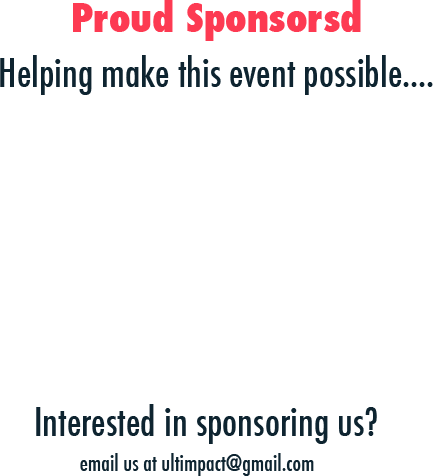
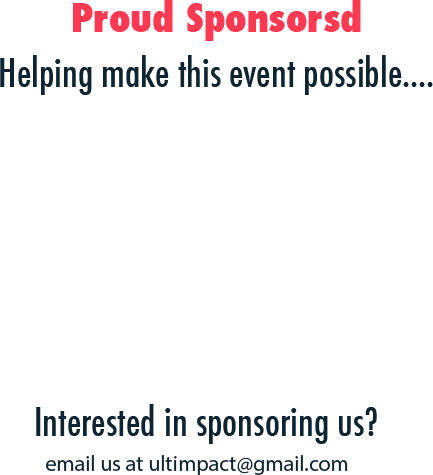
more picture to html

diff --git a/Deploy/index.html b/Deploy/index.html
@@ -160,7 +160,21 @@
 
             <h3>Daniel Rasmuson</h3>
             "If you are not making someone's life better you are wasting your time." Will Smith - My goals are to add value to the lives of people around the world. As a management major I hope to advance the the world by pushing the boundaries of technology. Currently I am working towards this goal by improving myself in the areas of leadership and software development. -->
-            <img src="img/sponsorText.png" alt="" class="middle">
+            <!-- <img src="img/sponsorText.png" alt="" class="middle"> -->
+            <div class="title" style="text-align: center;">Proudly Sponsored By</div>
+            <hr class="hrTitle">
+            <div class="bigText">Helping make this event possible.....</div>
+            <br>
+            <br>
+            <br>
+            <br>
+            <br>
+            <br>
+            <br>
+            <br>
+            <br>
+            <br>
+            <div style="text-align: center;">Interested in sponsoring a player? <br> email us at contact@ultimpact.com</div>
         </div>
         <!-- @@@@@@@ -->
         <!-- SLIDE 6 -->
